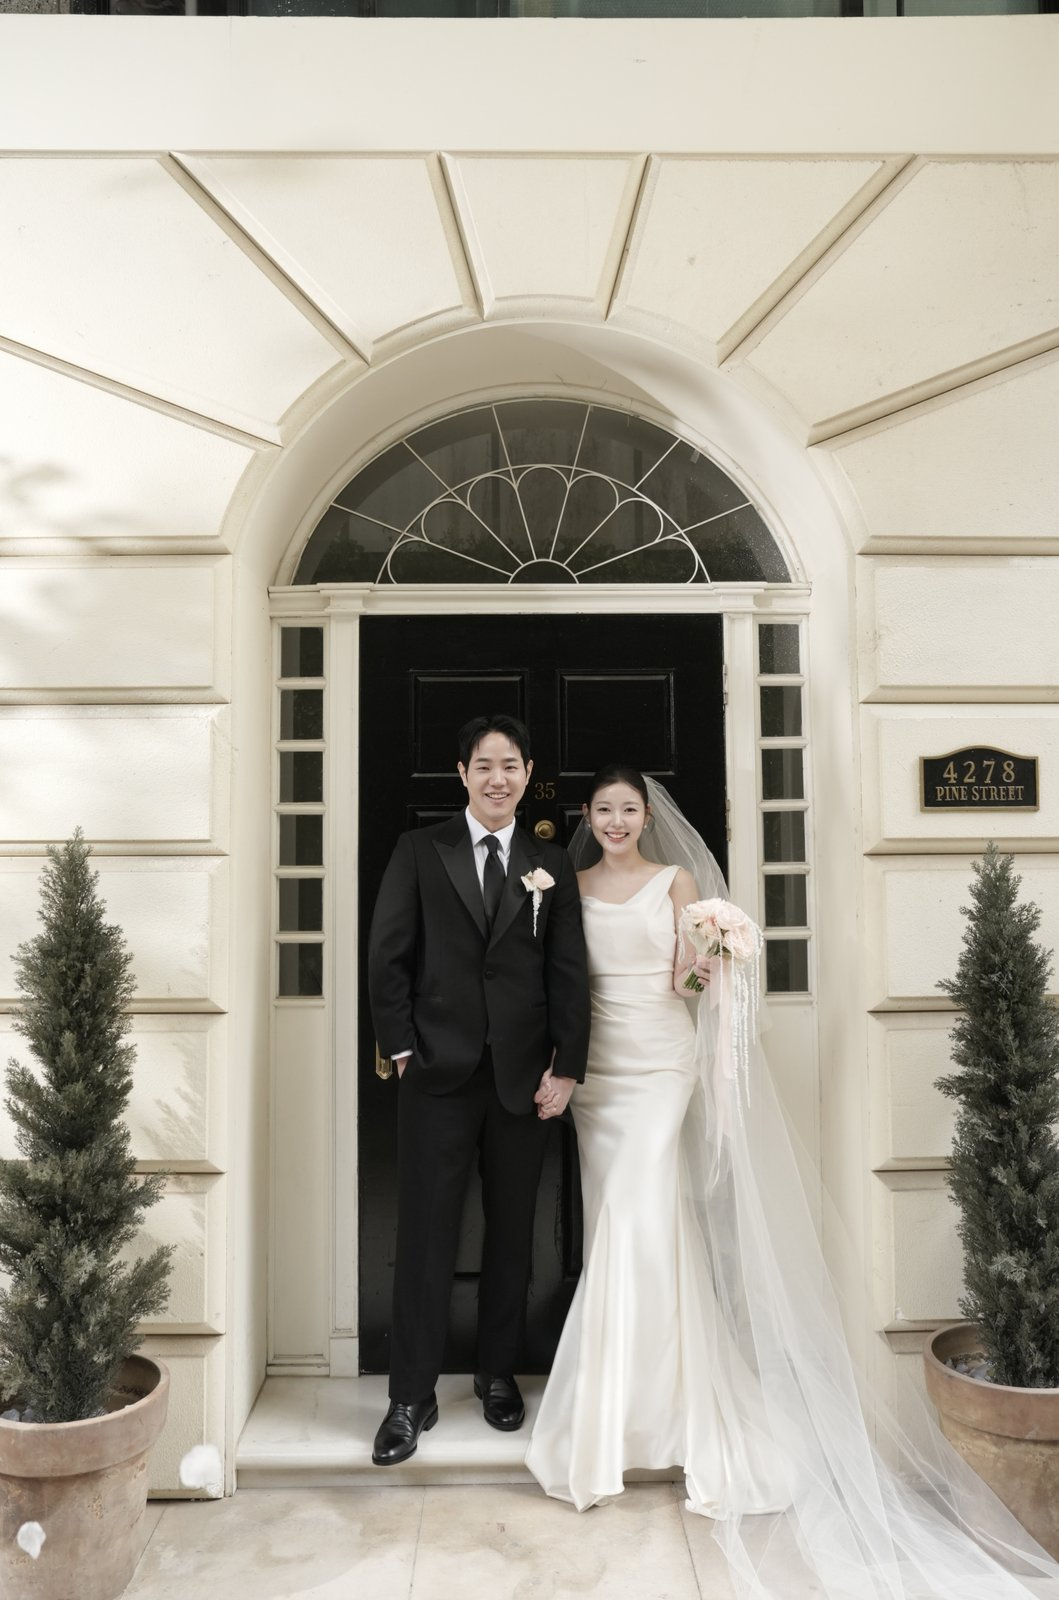
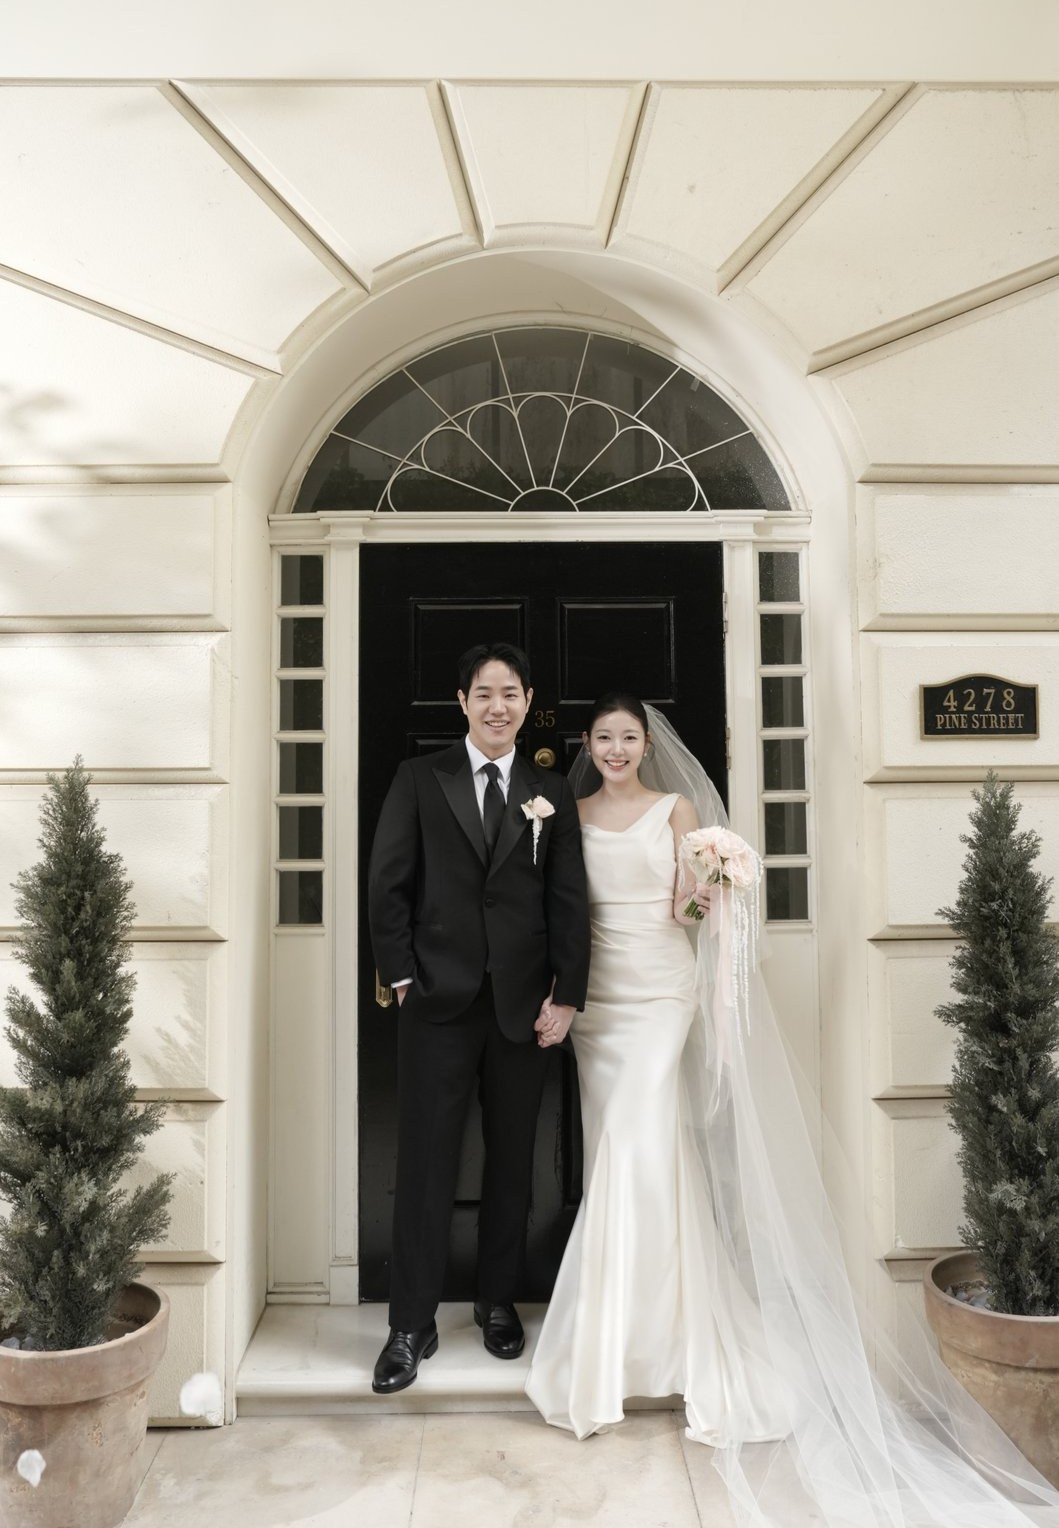
feat: 사진 크롭·삭제·순서 조정 (47장)
- 41번: 상단 검은 바 제거
- 43번: 상단 여백 크롭, 인물 확대
- 38번: 오른쪽 빈공간 크롭, 두 사람 크게
- 23번: 상단 천장 크롭, 얼굴 확대
- 44번 삭제 후 47번을 그 자리로 (48장 -> 47장 연번 정리)
- 33번 <-> 36번 위치 스왑

diff --git a/index.html b/index.html
@@ -1174,7 +1174,7 @@
       </div>
 
       <button class="gallery-more" id="galleryMoreBtn" onclick="toggleGallery()">
-        사진 더보기 (48장) ▼
+        사진 더보기 (47장) ▼
       </button>
     </div>
   </section>
@@ -1540,7 +1540,7 @@
 
 <script>
   /* ──────── 갤러리 자동 생성 ──────── */
-  const GALLERY_COUNT = 48;
+  const GALLERY_COUNT = 47;
   (function buildGallery() {
     const grid = document.getElementById('galleryGrid');
     let html = '';
